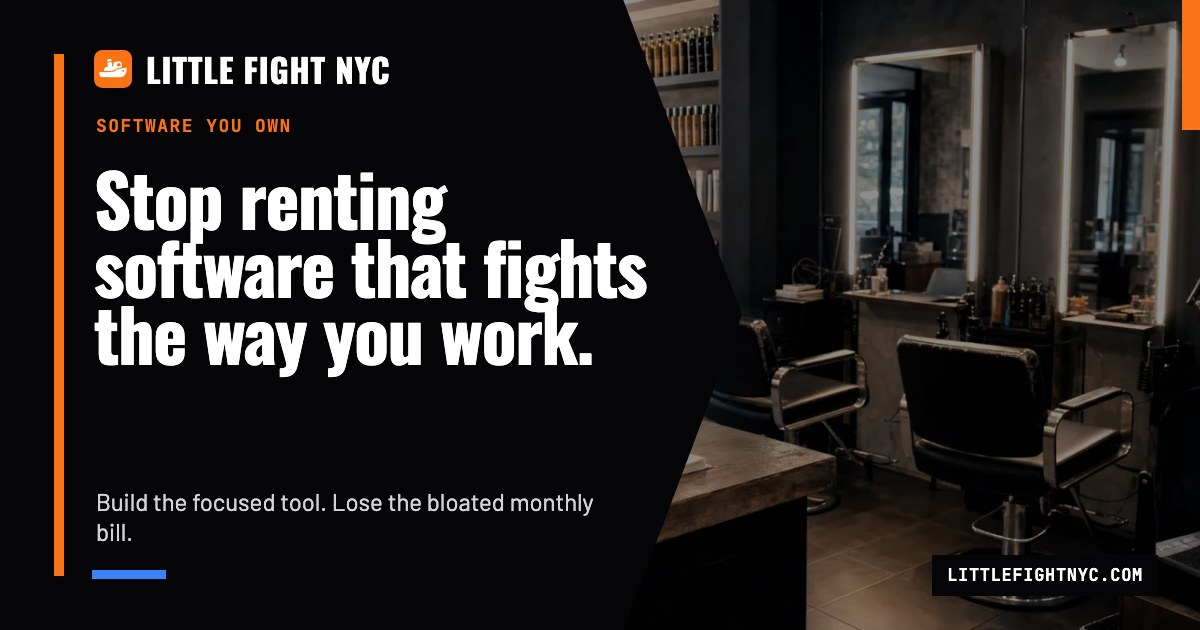
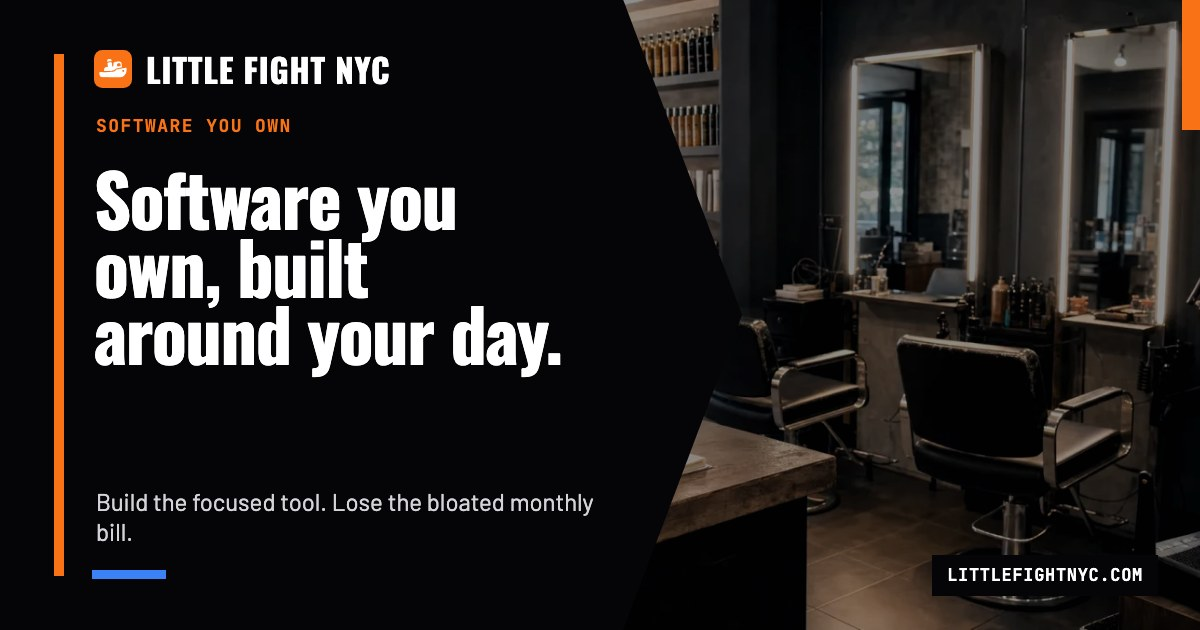
copy(software): open on the solved state, say it in "you" terms, add the pillars
Pyramid pass on /services/business-systems/. The headline led with the
problem ("Stop renting software that fights the way you work") and the short
answer opened "Little Fight builds…"; the hero was the only service with no
pillars.

Top: "Software you own, built around your day." Dek: "You get one focused
tool… and you own it. It replaces the spreadsheets, double typing, and
monthly tools that no longer fit." Middle: one place for customers/jobs/
follow-up · you own the code, data, and accounts · we check first whether a
simpler tool can do it. Bottom: unchanged.

Social card regenerated for the new headline; share alt matches it.

Built with Claude Code (LiFi NYC)
Claude-Session: https://claude.ai/code/session_01K4skiuH6c1Q9iykWzkTs1E

Changed region(s): [[0.0617, 0.2714, 0.555, 0.6032]]

diff --git a/app/src/data/site.ts b/app/src/data/site.ts
@@ -370,12 +370,21 @@ export const services: Service[] = [
     eyebrow: "Software You Own",
     verb: "Build",
     title: "A focused tool built around your business",
-    headline: "Stop renting software that fights the way you work.",
+    // Solved state first. The old headline led with the problem ("Stop
+    // renting software that fights the way you work"); the reader is already
+    // living it. The headline is now what they get, the short answer says it in
+    // "you" terms, and the hero carries three pillars like the other services.
+    headline: "Software you own, built around your day.",
     plain: "One clear place for customer questions, follow-up, reports, and daily work. We first check whether a simpler tool can do the job. If we build one for you, you keep the files, data, accounts, and notes.",
     outcome: "One focused tool. You own it, the data, the accounts, the website address, and the instructions.",
     includes: [
             "A clear place to track customer questions and work",
       "Full ownership of the files, data, accounts, and instructions",
+    pillars: [
+      "One place for customers, jobs, and follow-up",
+      "You own the code, data, and accounts",
+      "We check first whether a simpler tool can do it",
+    ],
       "Simple reports and follow-up reminders you approve",
       "Plain notes another qualified person can use if you ever need them",
       "A look at the steps and software bills that slow the day down",
@@ -385,7 +394,7 @@ export const services: Service[] = [
     accent: "green",
     icon: ClipboardCheck,
     shortAnswer:
-      "Short answer: Little Fight builds focused software that NYC small businesses own. It can replace scattered spreadsheets, double typing, and monthly tools that no longer fit.",
+      "Short answer: You get one focused tool built around how your business already works, and you own it. It replaces the scattered spreadsheets, double typing, and monthly tools that no longer fit.",
     whatItDoes: [
       "This is the work behind the storefront: the customer list, the job board, the quote, and the owner’s view of the week.",
       "Many small businesses run that layer on spreadsheets, inboxes, sticky notes, and memory. The work gets done, but one person becomes the memory for the whole business.",
